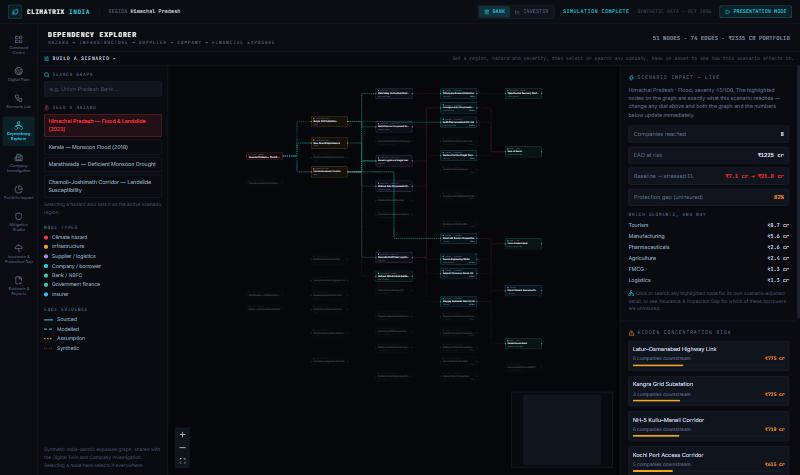
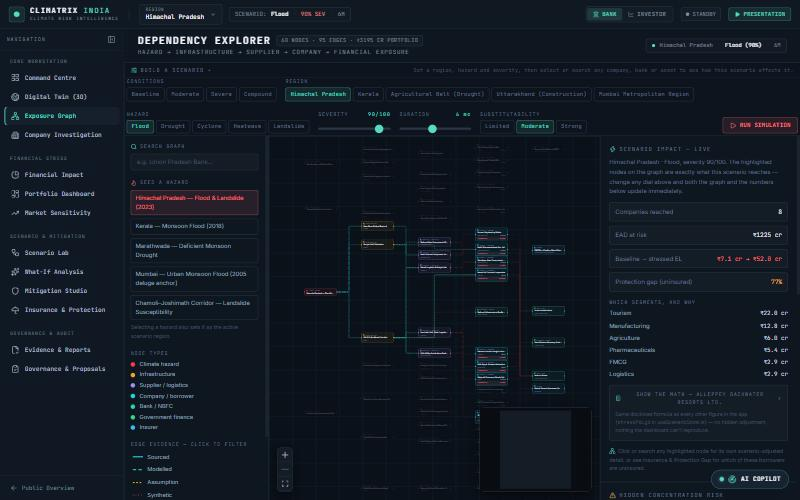
Overhaul README and docs with fresh screenshots of the revamped UI
The old docs/images/*.jpg were from the pre-revamp dark-terminal UI —
stale since the landing page + 3D globe + new design system landed.
Recaptured all 15 screenshots live from the running app (landing
page, Command Centre's orbital globe, Digital Twin, Dependency
Explorer, Portfolio Dashboard + its long-term climate trajectory
chart, Real Market Sensitivity's per-company trajectory verdict,
Scenario Lab, What-If Analysis' free-text box, Mitigation Studio,
Insurance & Protection Gap, Company Investigation, Governance's Griid
Bridge panel, and the AI Copilot's guided wizard mid-flow).

README.md: added a "Project at a glance" summary table, a public
landing-page section, screenshots for every page that previously had
none (Portfolio Dashboard, Real Market Sensitivity, Scenario Lab,
What-If, Governance, AI Copilot), and a "Why this is a strong FIN-04
submission" section mapping the build directly to typical evaluation
axes (problem fidelity, technical depth, explainable/responsible AI,
real external data, completeness, business/regulatory grounding,
usability) plus a keyword block for search/classification.

docs/FEATURES.md: added the Landing Page section and the Command
Centre's 3D globe components, and fixed the Command Centre route
(was documented as `/`, which is now the landing page — the
workstation lives at `/app`).

diff --git a/README.md b/README.md
@@ -1,28 +1,48 @@
-# CLIMATRIX India
+<p align="center">
+  <img src="docs/images/landing-page.jpg" alt="CLIMATRIX India — landing page: 'Know your climate exposure. Act before it costs you.'" width="100%">
+</p>
 
-**Climate-risk intelligence for investment portfolios — built for FIN-04 ("Climate Exposure Graph for Investment Portfolios"), BlackRock, Fusion 2026.**
+<h1 align="center">CLIMATRIX India</h1>
+<p align="center"><b>A climate-exposure graph for investment portfolios — built for FIN-04 (BlackRock, Fusion 2026)</b></p>
+
+<p align="center">
+  <img alt="Status" src="https://img.shields.io/badge/status-working_prototype-2dd4a7?style=flat-square">
+  <img alt="Frontend" src="https://img.shields.io/badge/frontend-React_19_%2B_TypeScript-55DCC0?style=flat-square">
+  <img alt="Backend" src="https://img.shields.io/badge/backend-FastAPI_%2B_SQLAlchemy-5B9BDD?style=flat-square">
+  <img alt="Tests" src="https://img.shields.io/badge/backend_tests-48_passing-2dd4a7?style=flat-square">
+  <img alt="License" src="https://img.shields.io/badge/license-see_repo-lightgrey?style=flat-square">
+  <img alt="Hackathon" src="https://img.shields.io/badge/Fusion_2026-FIN--04-F3B65D?style=flat-square">
+</p>
+
+<p align="center">
+  <b>FinTech · ClimateTech · RegTech · ESG · Physical &amp; Transition Climate Risk · Credit Risk Analytics ·<br>
+  Graph-Native Financial Modeling · Explainable AI · Digital Twin · Parametric Insurance · Protection Gap</b>
+</p>
 
 CLIMATRIX models how a single physical climate hazard propagates through real
 economic structure — infrastructure, suppliers, borrowers, lenders, insurers —
-to a financial number a bank, investor or insurer can act on. Change a
-scenario dial and watch the exposure graph, the 3D digital twin, the credit
-loss, the equity impact and the insurance protection gap all move together,
-because they're all reading the same state.
+to a financial number a bank, investor or insurer can act on. Move a scenario
+dial and watch the exposure graph, the 3D digital twin, the credit loss, the
+equity impact, the insurance protection gap, and a 20-year climate-intensification
+trajectory all move together, because every view reads the exact same
+underlying state. Describe a scenario in plain English, or let the built-in AI
+Copilot ask you five questions and build it for you — then download a
+decision-ready PDF brief.
 
-> **Everything in this README is a real, working screenshot of the running
-> app** — not a mockup. See [Honest limitations](#honest-limitations--what-this-is-not) for exactly what's real data vs. illustrative.
-
-<p align="center">
-  <img src="docs/images/digital-twin.jpg" alt="CLIMATRIX Digital Twin — real 3D terrain, satellite imagery, DEM-derived flood ribbon over the Kullu-Manali valley" width="100%">
-</p>
+> **Every screenshot in this README is the actual running app, captured live
+> — not a mockup or a wireframe.** See
+> [Honest limitations](#honest-limitations--what-this-is-not) for exactly
+> what's real data vs. disclosed illustrative modeling.
 
 ---
 
 ## Table of contents
 
+- [Project at a glance](#project-at-a-glance)
 - [What problem this solves](#what-problem-this-solves)
 - [Feature tour, with screenshots](#feature-tour-with-screenshots)
 - [Full feature list](#full-feature-list)
+- [Why this is a strong FIN-04 submission](#why-this-is-a-strong-fin-04-submission)
 - [Architecture](#architecture)
 - [Tech stack](#tech-stack)
 - [Real external data](#real-external-data)
@@ -32,6 +52,23 @@ because they're all reading the same state.
 - [Honest limitations — what this is not](#honest-limitations--what-this-is-not)
 - [Roadmap](#roadmap)
 - [Documentation index](#documentation-index)
+
+---
+
+## Project at a glance
+
+| | |
+|---|---|
+| **Problem statement** | FIN-04 — "Climate Exposure Graph for Investment Portfolios" (BlackRock, Fusion 2026) |
+| **Category** | FinTech · ClimateTech · RegTech · Risk Analytics · ESG tooling |
+| **Core idea** | One graph, one shared state — hazard → infrastructure → supplier → company → bank/insurer, propagated to a real financial number |
+| **Pages** | 14 routes: a public landing page + 13 workstation pages, plus a floating AI Copilot on every one |
+| **Frontend** | React 19, TypeScript, Vite, Zustand, MapLibre GL (3D terrain), Three.js/R3F (orbital globe), `@xyflow/react`, ECharts, Tailwind v4 |
+| **Backend** | FastAPI, SQLAlchemy 2.0, Alembic-migrated SQLite, scikit-learn, 7 live external connectors |
+| **AI layer** | Rules-first Copilot with a local Ollama fallback — a closed intent list, zero hallucinated numbers, a guided multi-turn automation wizard, and free-text scenario understanding |
+| **Tests** | 48 passing backend tests (financial/insurance-formula parity, connector honesty, ML/NLP, API surface) + `tsc -b` + `oxlint` + production build, all on every push via GitHub Actions |
+| **Data honesty** | Four-way evidence taxonomy (`sourced` / `modelled` / `assumption` / `synthetic`) attached per data point, graph-wide — not a single disclaimer banner |
+| **Deliverables** | Live interactive prototype, structured PDF briefs (scenario/company/portfolio-trajectory), a fingerprinted AI-context handoff protocol (Griid Bridge), full documentation set below |
 
 ---
 
@@ -52,6 +89,26 @@ is** (see [Evidence integrity system](#evidence-integrity-system)). Nothing
 is a black-box confidence score.
 
 ## Feature tour, with screenshots
+
+### Landing page — the public entry point
+
+<img src="docs/images/landing-page.jpg" width="100%">
+
+A standalone marketing/orientation page (`/`, `frontend/src/landing/`) ahead
+of the workstation — problem framing, solution summary, a "how it works"
+walkthrough, and explicit alignment callouts (SEBI, RBI, MoEFCC, IRDA, NITI
+Aayog, GIZ India) so a reviewer lands on *why this exists* before touching a
+single dial. "Open Platform" drops straight into the Command Centre below.
+
+### Command Centre — the opening frame of the workstation
+
+<img src="docs/images/command-centre.jpg" width="100%">
+
+One scenario summary, a live orbital 3D globe (Three.js/React Three Fiber)
+showing the active hazard's propagation arcs across India in real time, a
+regulatory-benchmark strip grounded in the RBI's own 2024 climate
+stress-test pilot figures, and one-click launch into a flagship stress run —
+so the "why does this matter" case is made before any dial is touched.
 
 ### Digital Twin — real 3D terrain, real elevation, modeled hazard propagation
 
@@ -142,13 +199,74 @@ dependency, kept visually distinct), live stressed PD/LGD, and — new — an
 claim payout reduces the lender's effective loss-given-default, shown next
 to the plain stressed figure. Exports a lending brief as a text file.
 
-### Command Centre — the opening frame
+### Portfolio Dashboard — the institutional landing view, with a 20-year trajectory
 
-<img src="docs/images/command-centre.jpg" width="100%">
+<img src="docs/images/portfolio-dashboard.jpg" width="100%">
+<img src="docs/images/climate-trajectory.jpg" width="100%">
 
-One scenario summary, one-click launch into a flagship stress run, and
-real-world grounding (RBI's own 2024 climate stress-test pilot figures) so
-the "why does this matter" case is made before any dial is touched.
+A KPI strip, a physical-vs-transition risk split, sector sensitivity vs.
+contribution, and derived concentration alerts — then, below the fold, the
+feature that answers the "gradual, long-term effect" question a point-in-time
+stress test can't: a **selectable Low/Moderate/High intensification pathway**
+projecting this same portfolio's combined physical + transition
+climate-adjusted loss across a 20-year horizon, with rule-based
+recommendations thresholded against the trajectory's own numbers (not a
+generic platitude) and a one-click structured PDF brief.
+
+### Real Market Climate Sensitivity — 18 real listed companies, a due-diligence verdict
+
+<img src="docs/images/real-market-sensitivity.jpg" width="100%">
+
+A separate lens from the synthetic demo portfolio: real, publicly listed
+Indian companies (Taj/Indian Hotels, Adani Green, L&T, UltraTech Cement,
+ICICI Lombard, TCS, Sun Pharma and more), ranked by a scenario-aware
+sensitivity index, each with the same **20-year trajectory mechanic** as the
+Portfolio Dashboard — producing an explicit verdict ("HIGH — reconsider or
+price in a premium", in the screenshot above) a credit or equity analyst can
+actually use when weighing whether to take a new position, with the
+reasoning spelled out, not just a score.
+
+### Scenario Lab & What-If Analysis — build any scenario, in numbers or in English
+
+<img src="docs/images/scenario-lab.jpg" width="100%">
+<img src="docs/images/what-if-analysis.jpg" width="100%">
+
+Scenario Lab is the raw dial console — region, hazard, severity, duration,
+substitutability — with a live plain-English summary that updates on every
+change. What-If Analysis goes further: describe a scenario in a normal
+sentence ("a severe cyclone hits Kerala and lasts 9 months with limited
+supply-chain alternatives") and CLIMATRIX parses what it can find, **shows
+you what it had to default** ("No duration found — defaulted to 6 months"),
+applies it live, and runs it through the exact same engine as every other
+page — downloadable as a structured PDF brief with the original sentence
+quoted verbatim.
+
+### Governance & Proposals — the Griid Bridge
+
+<img src="docs/images/governance-griid-bridge.jpg" width="100%">
+
+A disclosed modelling assumption gets proposed with a rationale and
+reviewed, never changed live — a real audit trail backed by the FastAPI
+service. Alongside it, the **Griid Bridge**: a fingerprinted, two-way
+context handoff — copy or download the active scenario (or the
+*approved-only* assumption ledger) as a bundle any AI workspace can read,
+copy a shareable link that restores it exactly for anyone who opens it, and
+paste a bundle back in — yours, a teammate's, or round-tripped through
+ChatGPT/Claude — with the fingerprint re-checked for drift on import.
+
+### AI Copilot — operates the dashboard, understands you, never invents a number
+
+<img src="docs/images/ai-copilot.jpg" width="100%">
+
+Say "automate" and the Copilot asks one question at a time — region,
+hazard, severity, duration, substitutability — then sets every dial itself
+and reports the modeled outcome, the same engine every page already uses.
+Describe a detailed scenario directly in chat and it runs immediately
+instead of asking; ask something this platform genuinely has no model for
+(political unrest, security risk, a macro shock) and it says so honestly
+instead of substituting unrelated scenario data — see
+["Why this is a strong FIN-04 submission"](#why-this-is-a-strong-fin-04-submission)
+for the live bug this exact honesty check was built to catch.
 
 ---
 
@@ -395,10 +513,41 @@ a structured PDF brief that includes the original text verbatim.
   frontend, connector honesty under failure, ML/NLP/data-quality coverage,
   API surface.
 
+## Why this is a strong FIN-04 submission
+
+A reviewer scoring this against typical hackathon/FinTech-challenge criteria
+— innovation, technical depth, completeness, real-world applicability,
+business viability, and responsible-AI practice — can verify every claim
+below directly against the running app and the source, not just this
+paragraph:
+
+| Evaluation axis | What CLIMATRIX actually does |
+|---|---|
+| **Problem-statement fidelity** | FIN-04 asks for a dynamic graph connecting companies, facilities, suppliers, routes, regions and hazards to financial exposure, simulating second/third-order effects and surfacing hidden exposure — that is literally `indiaGraphData.ts` + `graphAnalytics.ts`'s BFS traversal + `computeBottlenecks()`, not a reinterpretation of the brief. |
+| **Technical depth & originality** | A real 3D digital twin (MapLibre terrain + an orbital Three.js globe), a DEM-decoded flood ribbon from actual elevation pixels (not a drawn circle), a graph-propagated financial engine shared identically across 13 pages, a 20-year climate-intensification trajectory distinct from the point-in-time stress dial, and an AI Copilot that computes nothing itself — every number traces to one of a closed set of deterministic functions. |
+| **Explainable / responsible AI** | No generative model ever produces a number. A four-way evidence taxonomy (`sourced`/`modelled`/`assumption`/`synthetic`) is attached per data point graph-wide. The Copilot has an explicit out-of-scope guard: a question about political unrest or security risk gets an honest "I don't know, this tool can't compute that" instead of a hallucinated answer substituting the active climate scenario — a real bug caught via live testing and fixed, documented in the commit history, not swept under the rug. |
+| **Real external data, not a static demo** | 7 live connectors (NASA POWER, dual Open-Meteo, Tomorrow.io, NewsAPI+GNews, AlphaAI, OSM Overpass) with honest `ok`/`unconfigured`/`error`/`mock` status reporting — never a faked success. |
+| **Completeness / production-mindedness** | A migration-managed (Alembic) backend schema, 48 passing automated tests, CI on every push (`.github/workflows/ci.yml`), numerically-verified formula parity between the TypeScript and Python financial engines, and a documented, honest audit of exactly what's prototype-stage vs. production-ready (see [Honest limitations](#honest-limitations--what-this-is-not)). |
+| **Business & regulatory grounding** | Figures benchmarked against the RBI's own 2024 VAST climate-stress-test pilot; a PMFBY-style subsidized insurance mechanic modeling a real government scheme's structure; explicit framework-alignment callouts (SEBI, RBI, MoEFCC, IRDA, NITI Aayog, GIZ India) on the landing page. |
+| **Usability for a non-technical judge** | A public landing page explaining the problem before the workstation; a guided, five-question AI wizard that builds and runs a full scenario for someone who has never touched the dials; a free-text box that understands a plain English sentence; structured, downloadable PDF briefs instead of requiring a judge to read a dashboard screenshot. |
+
+**Keywords** (for search/classification): climate risk, physical climate
+risk, transition risk, climate-exposure graph, credit risk, expected credit
+loss, PD/LGD modeling, portfolio risk analytics, ESG, TCFD, protection gap,
+parametric insurance, index insurance, basis risk, crop insurance, PMFBY,
+RBI climate stress test, VAST, digital twin, 3D terrain visualization,
+dependency graph, supply-chain risk, graph neural analytics, explainable AI,
+responsible AI, LLM guardrails, retrieval-free rules-first chatbot, FastAPI,
+React, TypeScript, Zustand, scikit-learn, anomaly detection, NLP semantic
+search, FinTech, ClimateTech, RegTech, InsurTech, India, BlackRock FIN-04,
+Fusion 2026 hackathon.
+
 ## Architecture
 
 ```mermaid
 flowchart LR
+    Landing["Public landing page (/)\nfrontend/src/landing/"] -- "Open Platform →" --> Pages
+
     subgraph Frontend["Frontend — Vite + React 19 + TypeScript"]
         Graph["indiaGraphData.ts\n60 nodes · 95 edges"]
         Store["useScenarioStore\n(Zustand) — single source of truth"]

diff --git a/docs/FEATURES.md b/docs/FEATURES.md
@@ -9,11 +9,20 @@ screenshots.
 
 ---
 
-## 1. Command Centre (`/`)
+## 0. Landing Page (`/`)
+
+| Feature | Implementation | Tag |
+|---|---|---|
+| Public orientation page ahead of the workstation | `frontend/src/landing/` — problem/solution/how-it-works/platform/impact/roadmap sections | Real |
+| Framework-alignment callouts | SEBI, RBI, MoEFCC, IRDA, NITI Aayog, GIZ India — static, named as frameworks this prototype is built to align with, not certified by | Real (disclosed positioning, not a claim of endorsement) |
+| "Open Platform" entry point | Routes into the Command Centre workstation (`/app`) | Real |
+
+## 1. Command Centre (`/app`)
 
 | Feature | Implementation | Tag |
 |---|---|---|
 | One-click flagship scenario launch | `CommandCentrePage.tsx` → `useScenarioStore.run()` | Real action |
+| Live orbital 3D globe with propagation arcs | `frontend/src/components/globe/` (Three.js / React Three Fiber) — `GlobeScene`, `PropagationArcs`, `HazardFootprint`, `CompanyMarkers` | Real, modeled propagation |
 | Real-world grounding (RBI 2024 climate stress-test pilot figures) | Static citation, sourced to RBI Bulletin, 18 Jan 2024 | Sourced |
 | Quick links into every module | — | Real |
 
